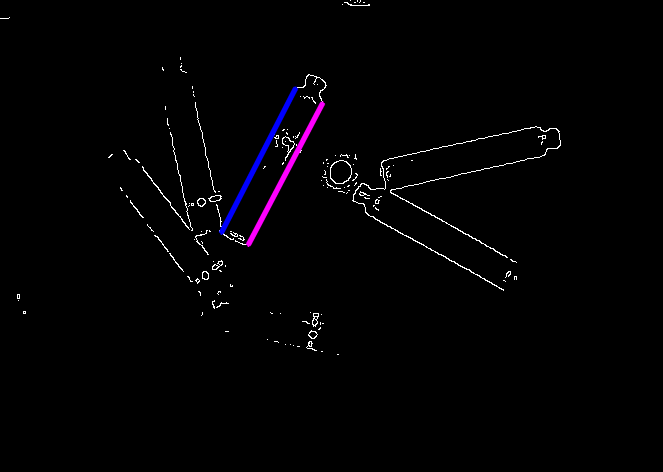
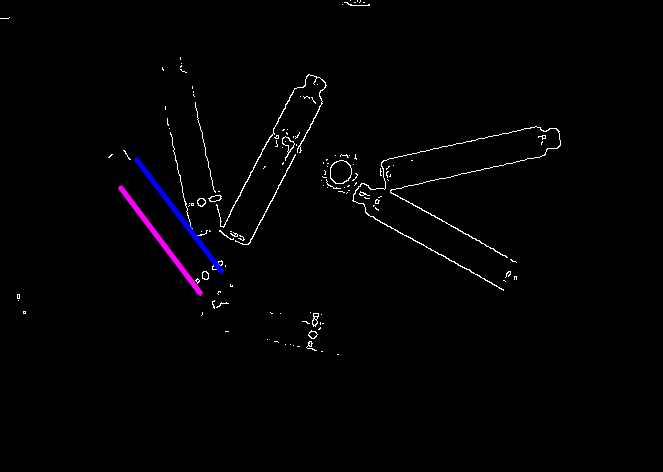
Corrections to Line merge function

diff --git a/GlassSegmentV1/GlassSegmentV1.py b/GlassSegmentV1/GlassSegmentV1.py
@@ -31,17 +31,26 @@ def LineMerge(glassLines):
     # * function that merge the lines of a side to only one line
     lineMerged = np.zeros([2,6])
     k = 0
-    if len(glassLines) == 2:
+    if len(glassLines) == 2: # check if there exist only 2 lines
         a0 = abs(glassLines[0,1]-glassLines[0,3])
-        b0 = abs(glassLines[0,2]-glassLines[0,4])# check if there exist only 2 lines
+        b0 = abs(glassLines[0,2]-glassLines[0,4])
         a1 = abs(glassLines[1,1]-glassLines[1,3])
         b1 = abs(glassLines[1,2]-glassLines[1,4])
         c0 = np.hypot(a0,b0)
         c1 = np.hypot(a1,b1)
-        lineMerged = glassLines
+        lineMerged[0,0] = glassLines[0,0]
+        lineMerged[0,1] = glassLines[0,1]
+        lineMerged[0,2] = glassLines[0,2]
+        lineMerged[0,3] = glassLines[0,3]
+        lineMerged[0,4] = glassLines[0,4]
         lineMerged[0,5] = c0
+        lineMerged[1,0] = glassLines[1,0]
+        lineMerged[1,1] = glassLines[1,1]
+        lineMerged[1,2] = glassLines[1,2]
+        lineMerged[1,3] = glassLines[1,3]
+        lineMerged[1,4] = glassLines[1,4]
         lineMerged[1,5] = c1
-    elif len(glassLines) == 3:
+    elif len(glassLines) == 3: # check if there exist only 3 lines
         angleRangeLower = glassLines[0,0]-0.2
         angleRangeUpper = glassLines[0,0]+0.2
         
@@ -131,7 +140,7 @@ def LineMerge(glassLines):
             lineMerged[1,4] = y0End
             lineMerged[1,5] = c
             
-    else:
+    else: # For 3+ lines
         for i in range(0,len(glassLines)):
             for j in range(i,len(glassLines)):
                 if j == i:
@@ -218,7 +227,7 @@ def LinesGrouping(sortedLines):
             glass4[k,3] = sortedLinesArray[i,3]
             glass4[k,4] = sortedLinesArray[i,4]
         k+=1
-    lineGroup=glass4
+    lineGroup=glass3
     
     # deletion of zero rows
     for i in range(len(lineGroup)-1,0,-1):
